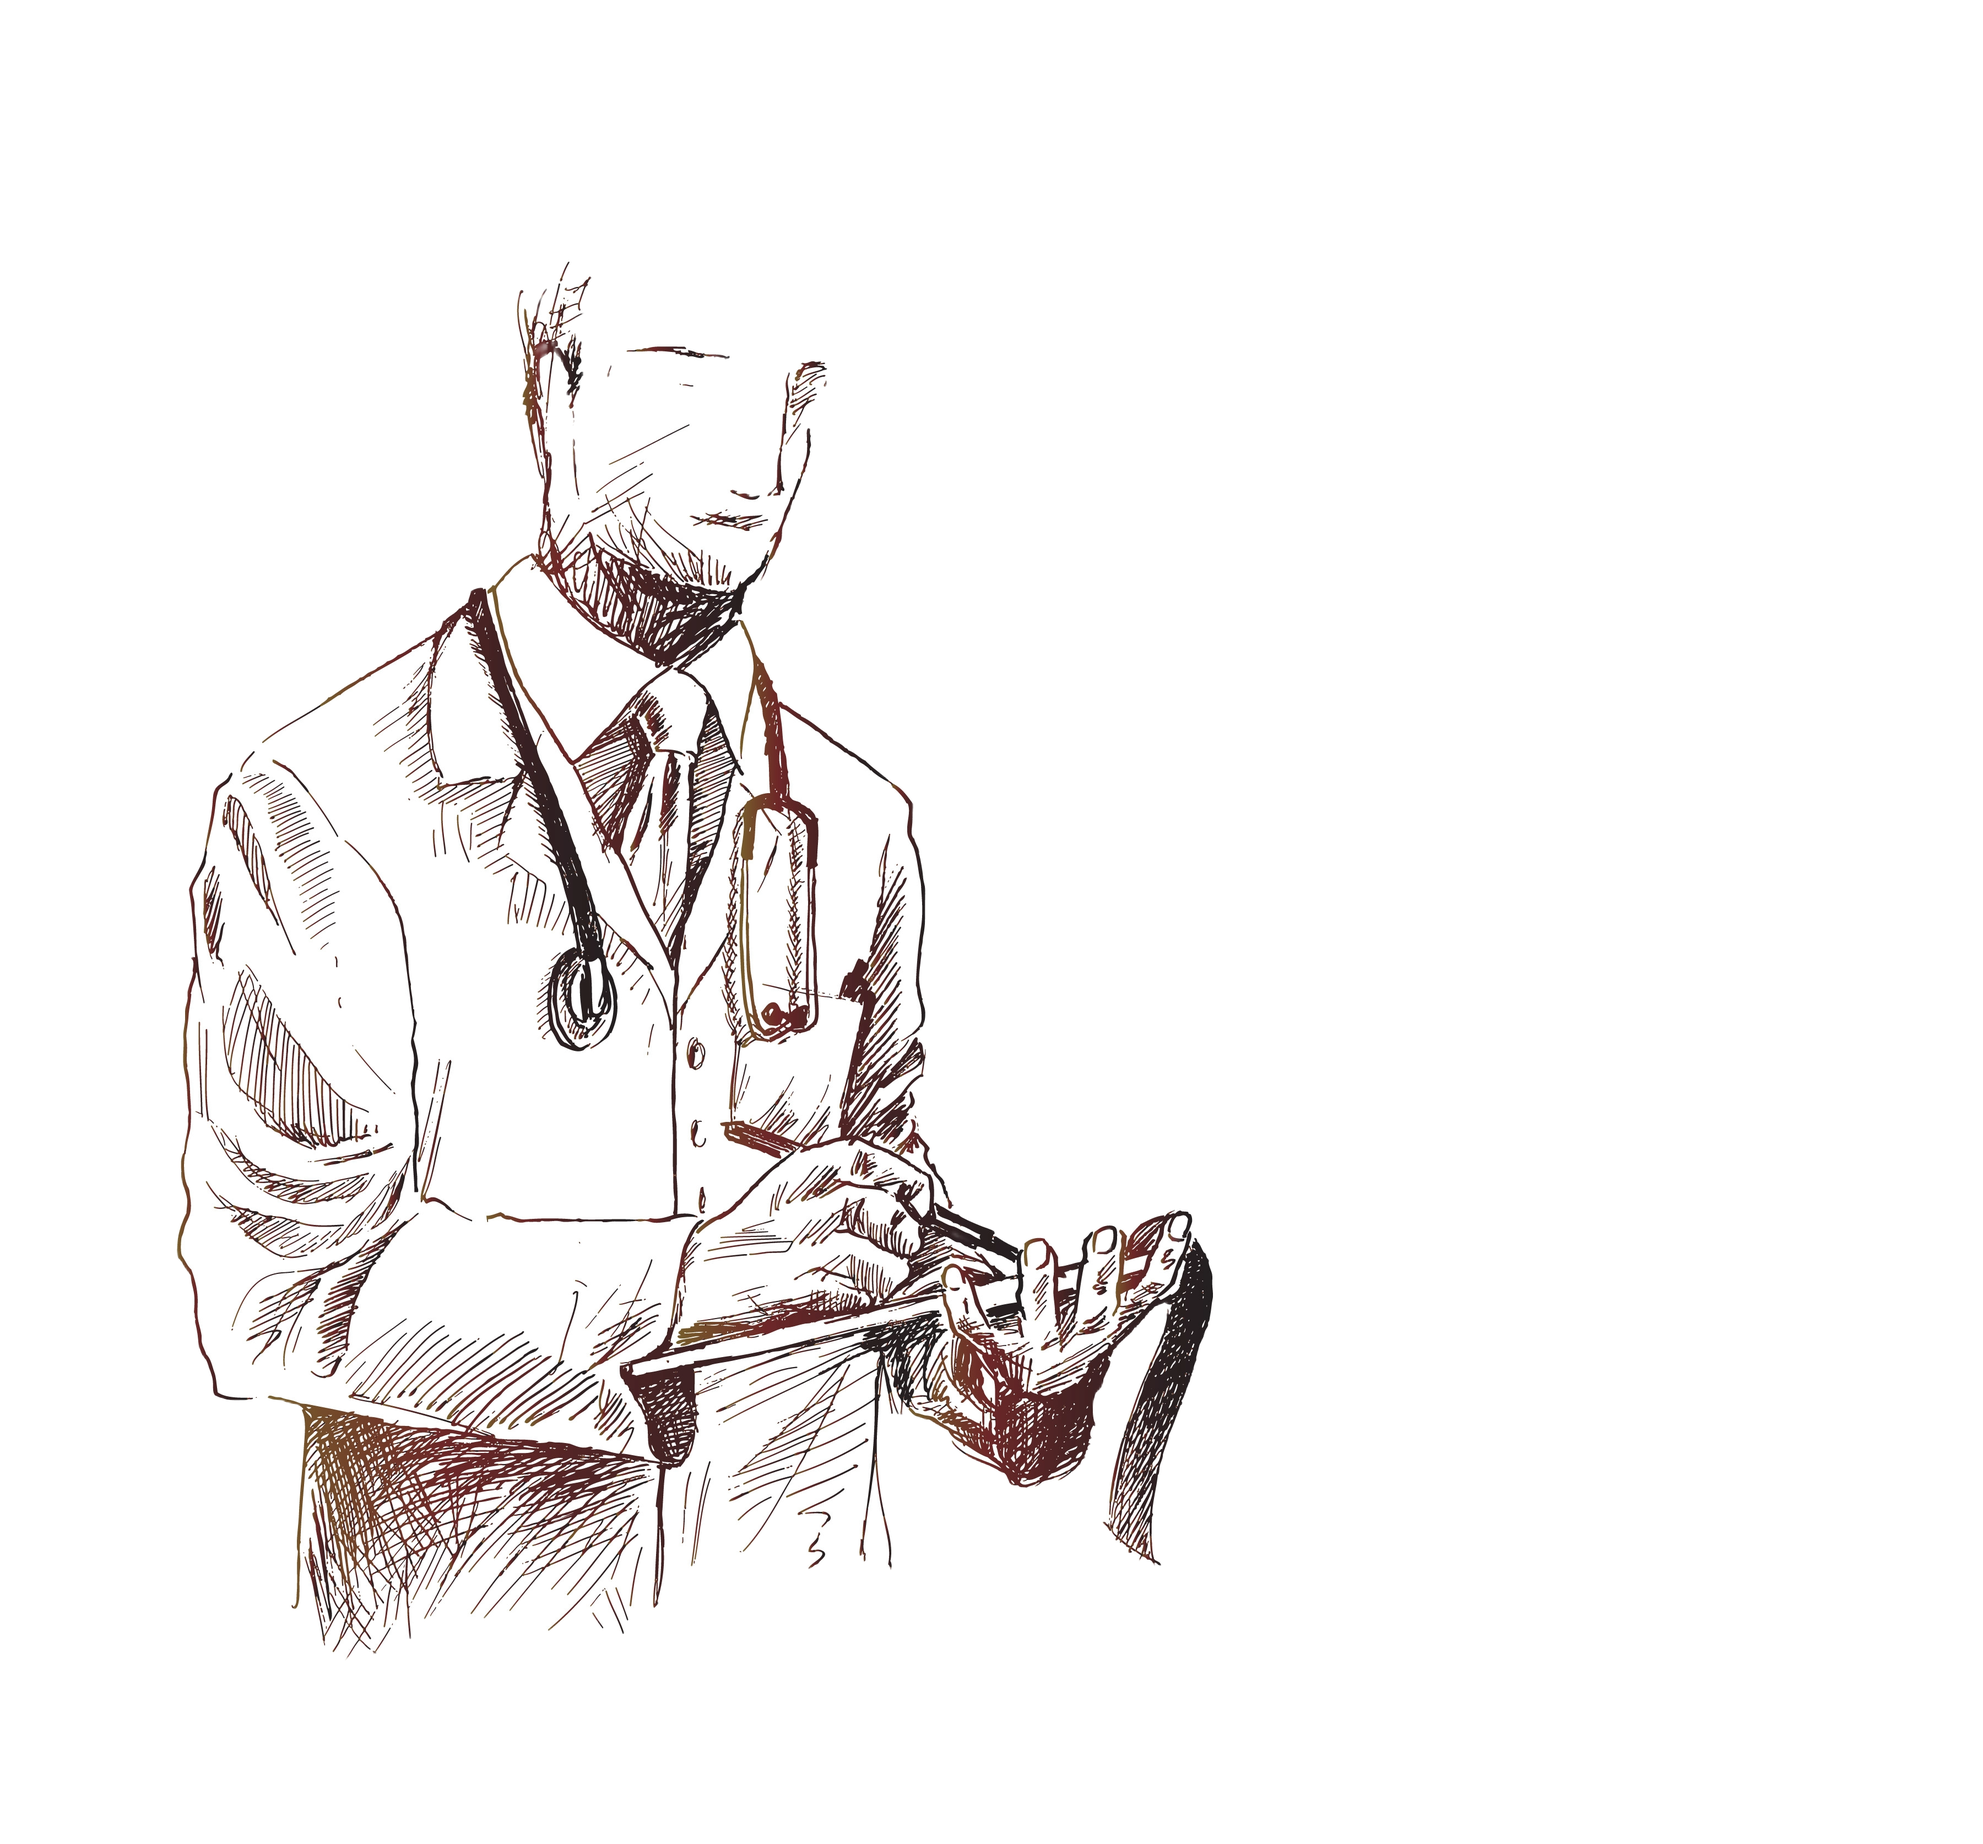
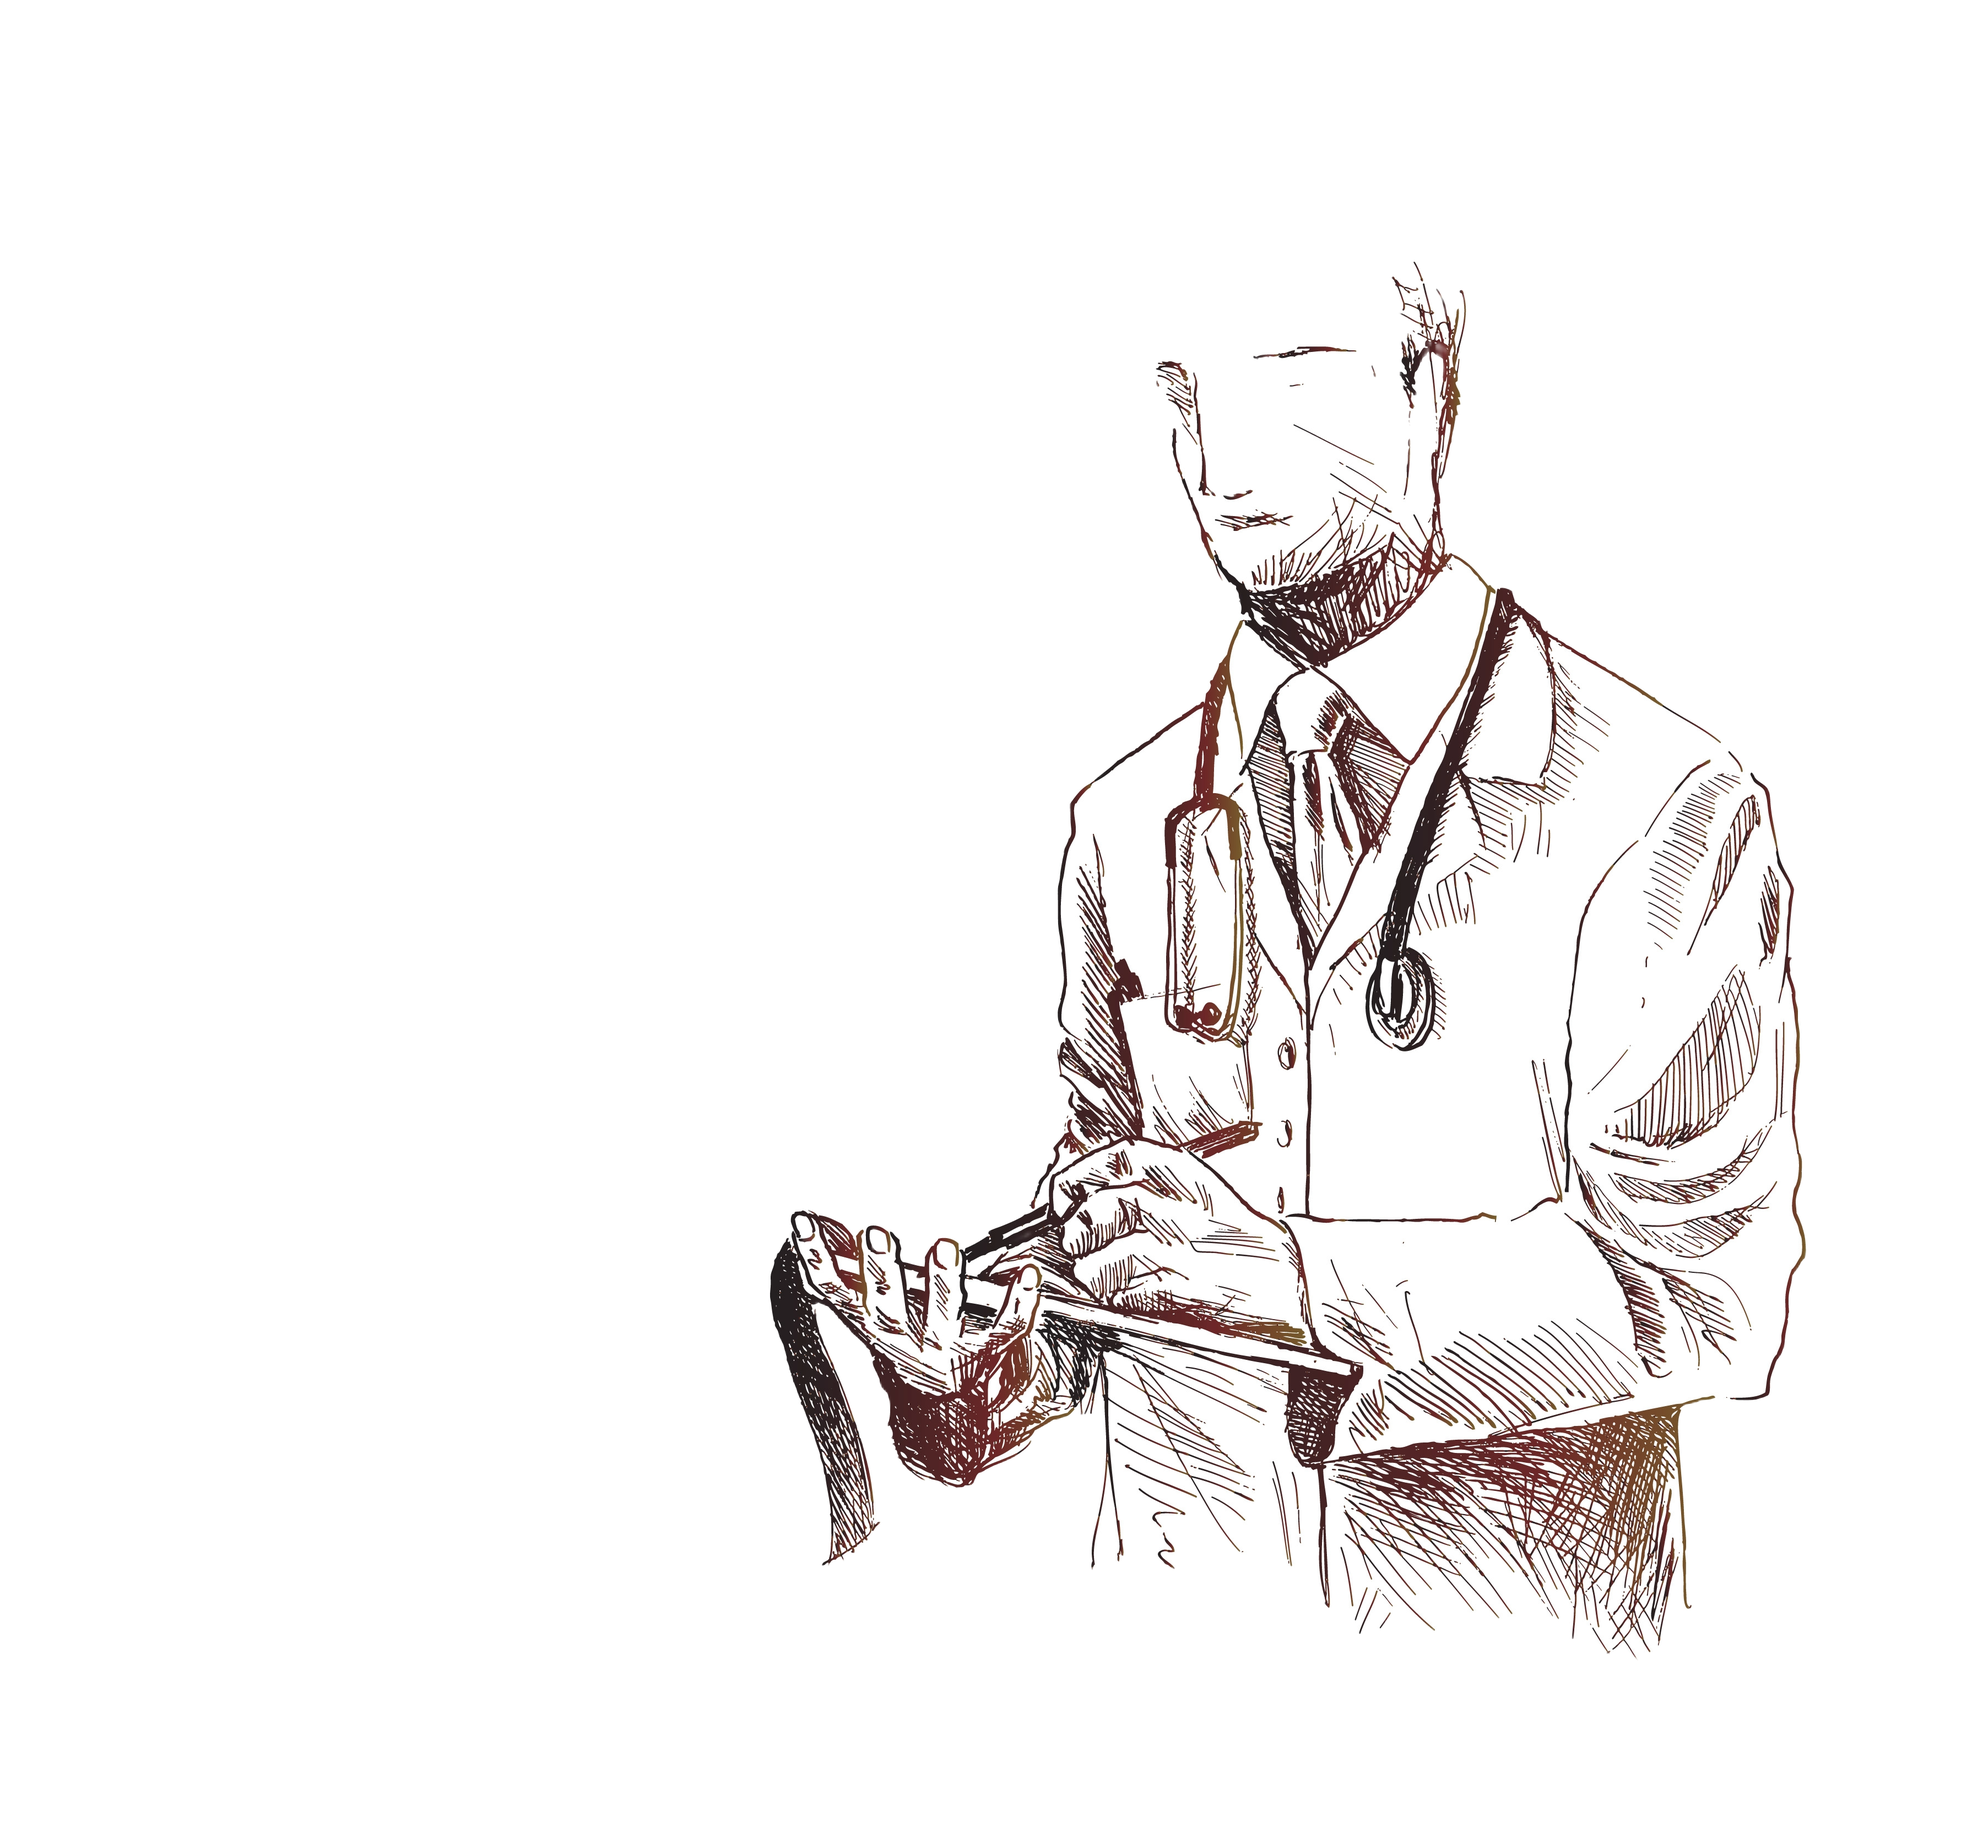
Register Update

Changed region(s): [[0.0933, 0.1553, 0.9022, 0.9008], [0.4044, 0.1864, 0.4356, 0.2174]]

diff --git a/HeaLEOO/wwwroot/css/pages/auth.css b/HeaLEOO/wwwroot/css/pages/auth.css
@@ -37,6 +37,7 @@
 
 .auth-title-register-page {
     color: #416CDF;
+    font-weight:550;
 }
 
 /* Title outside card */
@@ -272,4 +273,18 @@
     .auth-right {
         padding: 1rem;
     }
+}
+
+/* Right side (Register, reversed) */
+.auth-right-register {
+    flex: 1;
+    display: flex;
+    align-items: center;
+    justify-content: center;
+    background: #FFF;
+}
+
+
+.register-page .auth-card {
+    margin:25px 0px 0px 200px;
 }
